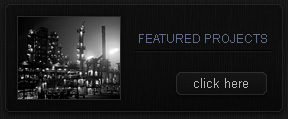
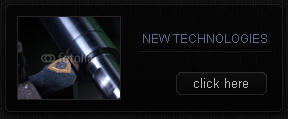
add cycle slider + small fixes

Changed region(s): [[0.0625, 0.1261, 0.4375, 0.8319], [0.4688, 0.2773, 0.9062, 0.3782], [0.0938, 0.2521, 0.125, 0.3277]]

diff --git a/sites/all/themes/zen/instrument/js/jquery.cycle.lite.js b/sites/all/themes/zen/instrument/js/jquery.cycle.lite.js
@@ -1,0 +1,235 @@
+/*!
+ * jQuery Cycle Lite Plugin
+ * http://malsup.com/jquery/cycle/lite/
+ * Copyright (c) 2008-2012 M. Alsup
+ * Version: 1.7 (16-JAN-2013)
+ * Dual licensed under the MIT and GPL licenses:
+ * http://www.opensource.org/licenses/mit-license.php
+ * http://www.gnu.org/licenses/gpl.html
+ * Requires: jQuery v1.3.2 or later
+ */
+;(function($) {
+"use strict";
+
+var ver = 'Lite-1.6';
+var msie = /MSIE/.test(navigator.userAgent);
+
+$.fn.cycle = function(options) {
+    return this.each(function() {
+        options = options || {};
+        
+        if (this.cycleTimeout) 
+            clearTimeout(this.cycleTimeout);
+
+        this.cycleTimeout = 0;
+        this.cyclePause = 0;
+        
+        var $cont = $(this);
+        var $slides = options.slideExpr ? $(options.slideExpr, this) : $cont.children();
+        var els = $slides.get();
+        if (els.length < 2) {
+            if (window.console)
+                console.log('terminating; too few slides: ' + els.length);
+            return; // don't bother
+        }
+
+        // support metadata plugin (v1.0 and v2.0)
+        var opts = $.extend({}, $.fn.cycle.defaults, options || {}, $.metadata ? $cont.metadata() : $.meta ? $cont.data() : {});
+        var meta = $.isFunction($cont.data) ? $cont.data(opts.metaAttr) : null;
+        if (meta)
+            opts = $.extend(opts, meta);
+            
+        opts.before = opts.before ? [opts.before] : [];
+        opts.after = opts.after ? [opts.after] : [];
+        opts.after.unshift(function(){ opts.busy=0; });
+            
+        // allow shorthand overrides of width, height and timeout
+        var cls = this.className;
+        opts.width = parseInt((cls.match(/w:(\d+)/)||[])[1], 10) || opts.width;
+        opts.height = parseInt((cls.match(/h:(\d+)/)||[])[1], 10) || opts.height;
+        opts.timeout = parseInt((cls.match(/t:(\d+)/)||[])[1], 10) || opts.timeout;
+
+        if ($cont.css('position') == 'static') 
+            $cont.css('position', 'relative');
+        if (opts.width) 
+            $cont.width(opts.width);
+        if (opts.height && opts.height != 'auto') 
+            $cont.height(opts.height);
+
+        var first = 0;
+        $slides.css({position: 'absolute', top:0}).each(function(i) {
+            $(this).css('z-index', els.length-i);
+        });
+        
+        $(els[first]).css('opacity',1).show(); // opacity bit needed to handle reinit case
+        if (msie) 
+            els[first].style.removeAttribute('filter');
+
+        if (opts.fit && opts.width) 
+            $slides.width(opts.width);
+        if (opts.fit && opts.height && opts.height != 'auto') 
+            $slides.height(opts.height);
+        if (opts.pause) 
+            $cont.hover(function(){this.cyclePause=1;}, function(){this.cyclePause=0;});
+
+        var txFn = $.fn.cycle.transitions[opts.fx];
+        if (txFn)
+            txFn($cont, $slides, opts);
+        
+        $slides.each(function() {
+            var $el = $(this);
+            this.cycleH = (opts.fit && opts.height) ? opts.height : $el.height();
+            this.cycleW = (opts.fit && opts.width) ? opts.width : $el.width();
+        });
+
+        if (opts.cssFirst)
+            $($slides[first]).css(opts.cssFirst);
+
+        if (opts.timeout) {
+            // ensure that timeout and speed settings are sane
+            if (opts.speed.constructor == String)
+                opts.speed = {slow: 600, fast: 200}[opts.speed] || 400;
+            if (!opts.sync)
+                opts.speed = opts.speed / 2;
+            while((opts.timeout - opts.speed) < 250)
+                opts.timeout += opts.speed;
+        }
+        opts.speedIn = opts.speed;
+        opts.speedOut = opts.speed;
+
+        opts.slideCount = els.length;
+        opts.currSlide = first;
+        opts.nextSlide = 1;
+
+        // fire artificial events
+        var e0 = $slides[first];
+        if (opts.before.length)
+            opts.before[0].apply(e0, [e0, e0, opts, true]);
+        if (opts.after.length > 1)
+            opts.after[1].apply(e0, [e0, e0, opts, true]);
+        
+        if (opts.click && !opts.next)
+            opts.next = opts.click;
+        if (opts.next)
+            $(opts.next).unbind('click.cycle').bind('click.cycle', function(){return advance(els,opts,opts.rev?-1:1);});
+        if (opts.prev)
+            $(opts.prev).unbind('click.cycle').bind('click.cycle', function(){return advance(els,opts,opts.rev?1:-1);});
+
+        if (opts.timeout)
+            this.cycleTimeout = setTimeout(function() {
+                go(els,opts,0,!opts.rev);
+            }, opts.timeout + (opts.delay||0));
+    });
+};
+
+function go(els, opts, manual, fwd) {
+    if (opts.busy) 
+        return;
+    var p = els[0].parentNode, curr = els[opts.currSlide], next = els[opts.nextSlide];
+    if (p.cycleTimeout === 0 && !manual) 
+        return;
+
+    if (manual || !p.cyclePause) {
+        if (opts.before.length)
+            $.each(opts.before, function(i,o) { o.apply(next, [curr, next, opts, fwd]); });
+        var after = function() {
+            if (msie)
+                this.style.removeAttribute('filter');
+            $.each(opts.after, function(i,o) { o.apply(next, [curr, next, opts, fwd]); });
+            queueNext(opts);
+        };
+
+        if (opts.nextSlide != opts.currSlide) {
+            opts.busy = 1;
+            $.fn.cycle.custom(curr, next, opts, after);
+        }
+        var roll = (opts.nextSlide + 1) == els.length;
+        opts.nextSlide = roll ? 0 : opts.nextSlide+1;
+        opts.currSlide = roll ? els.length-1 : opts.nextSlide-1;
+    } else {
+      queueNext(opts);
+    }
+
+    function queueNext(opts) {
+        if (opts.timeout)
+            p.cycleTimeout = setTimeout(function() { go(els,opts,0,!opts.rev); }, opts.timeout);
+    }
+}
+
+// advance slide forward or back
+function advance(els, opts, val) {
+    var p = els[0].parentNode, timeout = p.cycleTimeout;
+    if (timeout) {
+        clearTimeout(timeout);
+        p.cycleTimeout = 0;
+    }
+    opts.nextSlide = opts.currSlide + val;
+    if (opts.nextSlide < 0) {
+        opts.nextSlide = els.length - 1;
+    }
+    else if (opts.nextSlide >= els.length) {
+        opts.nextSlide = 0;
+    }
+    go(els, opts, 1, val>=0);
+    return false;
+}
+
+$.fn.cycle.custom = function(curr, next, opts, cb) {
+    var $l = $(curr), $n = $(next);
+    $n.css(opts.cssBefore);
+    var fn = function() {$n.animate(opts.animIn, opts.speedIn, opts.easeIn, cb);};
+    $l.animate(opts.animOut, opts.speedOut, opts.easeOut, function() {
+        $l.css(opts.cssAfter);
+        if (!opts.sync)
+            fn();
+    });
+    if (opts.sync)
+        fn();
+};
+
+$.fn.cycle.transitions = {
+    fade: function($cont, $slides, opts) {
+        $slides.not(':eq(0)').hide();
+        opts.cssBefore = { opacity: 0, display: 'block' };
+        opts.cssAfter  = { display: 'none' };
+        opts.animOut = { opacity: 0 };
+        opts.animIn = { opacity: 1 };
+    },
+    fadeout: function($cont, $slides, opts) {
+        opts.before.push(function(curr,next,opts,fwd) {
+            $(curr).css('zIndex',opts.slideCount + (fwd === true ? 1 : 0));
+            $(next).css('zIndex',opts.slideCount + (fwd === true ? 0 : 1));
+        });
+        $slides.not(':eq(0)').hide();
+        opts.cssBefore = { opacity: 1, display: 'block', zIndex: 1 };
+        opts.cssAfter  = { display: 'none', zIndex: 0 };
+        opts.animOut = { opacity: 0 };
+        opts.animIn = { opacity: 1 };
+    }
+};
+
+$.fn.cycle.ver = function() { return ver; };
+
+// @see: http://malsup.com/jquery/cycle/lite/
+$.fn.cycle.defaults = {
+    animIn:        {},
+    animOut:       {},
+    fx:           'fade',
+    after:         null,
+    before:        null,
+    cssBefore:     {},
+    cssAfter:      {},
+    delay:         0,
+    fit:           0,
+    height:       'auto',
+    metaAttr:     'cycle',
+    next:          null,
+    pause:         false,
+    prev:          null,
+    speed:         1000,
+    slideExpr:     null,
+    sync:          true,
+    timeout:       4000
+};
+
+})(jQuery);

diff --git a/sites/all/themes/zen/instrument/js/script.js b/sites/all/themes/zen/instrument/js/script.js
@@ -1,0 +1,20 @@
+/**
+ * @file
+ * A JavaScript file for the theme.
+ *
+ * In order for this JavaScript to be loaded on pages, see the instructions in
+ * the README.txt next to this file.
+ */
+
+// JavaScript should be made compatible with libraries other than jQuery by
+// wrapping it with an "anonymous closure". See:
+// - http://drupal.org/node/1446420
+// - http://www.adequatelygood.com/2010/3/JavaScript-Module-Pattern-In-Depth
+(function ($, Drupal, window, document, undefined) {
+
+// Place your code here.
+$(document).ready(function() {      
+  $('#fade').cycle();
+});
+
+})(jQuery, Drupal, this, this.document);

diff --git a/sites/all/themes/zen/instrument/css/style.css b/sites/all/themes/zen/instrument/css/style.css
@@ -162,7 +162,7 @@ a.cont-more { font-size:14px !important; font-weight:bold !important;}
 
 .width { width:100%; overflow:hidden;}
 
-#cont-col { overflow:hidden; height:1%; padding:18px 0px 0px 0px; }
+#cont-col { overflow:hidden; height:1%; padding:0px 0px 0px 0px; }
 #cont-col .ind { width:100%; overflow:hidden;}
 
 #right-col { width:284px; float:right;}

diff --git a/sites/all/themes/zen/instrument/templates/page--front.tpl.php b/sites/all/themes/zen/instrument/templates/page--front.tpl.php
@@ -24,8 +24,9 @@
         </div>			  
       </div>
 
-      <div class="head-row3">
+      <div class="head-row3" id="fade">
         <img style="margin-left:5px;" src="/<?php print path_to_theme(); ?>/images/e.png">
+				<img style="margin-left:5px;" src="/<?php print path_to_theme(); ?>/images/e2.jpg">
       </div>
 
       <div class="head-row4">
@@ -37,7 +38,7 @@
 
         <div class="col2"></div>
       </div>
-			<!-- баннеры
+			<!-- баннеры-->
       <div class="head-row5" id="custom">
         <div class="block block-block" id="block-block-14">
           <div class="block-top">
@@ -67,7 +68,8 @@
             </div>
           </div>
         </div>
-      </div>-->
+      </div>
+			<!-- баннеры-->
     </div>
 
     <div id="cont">
@@ -173,7 +175,9 @@
 							<?php if ($title): ?>
 								<h2 class="title" id="page-title"><?php print $title; ?></h2>
 							<?php endif; ?>
-							<?php print render($page['content']); ?>
+							<div class="content">
+								<?php print render($page['content']); ?>
+							</div>
 							<?php print $feed_icons; ?>
 
               <div id="custom2">
